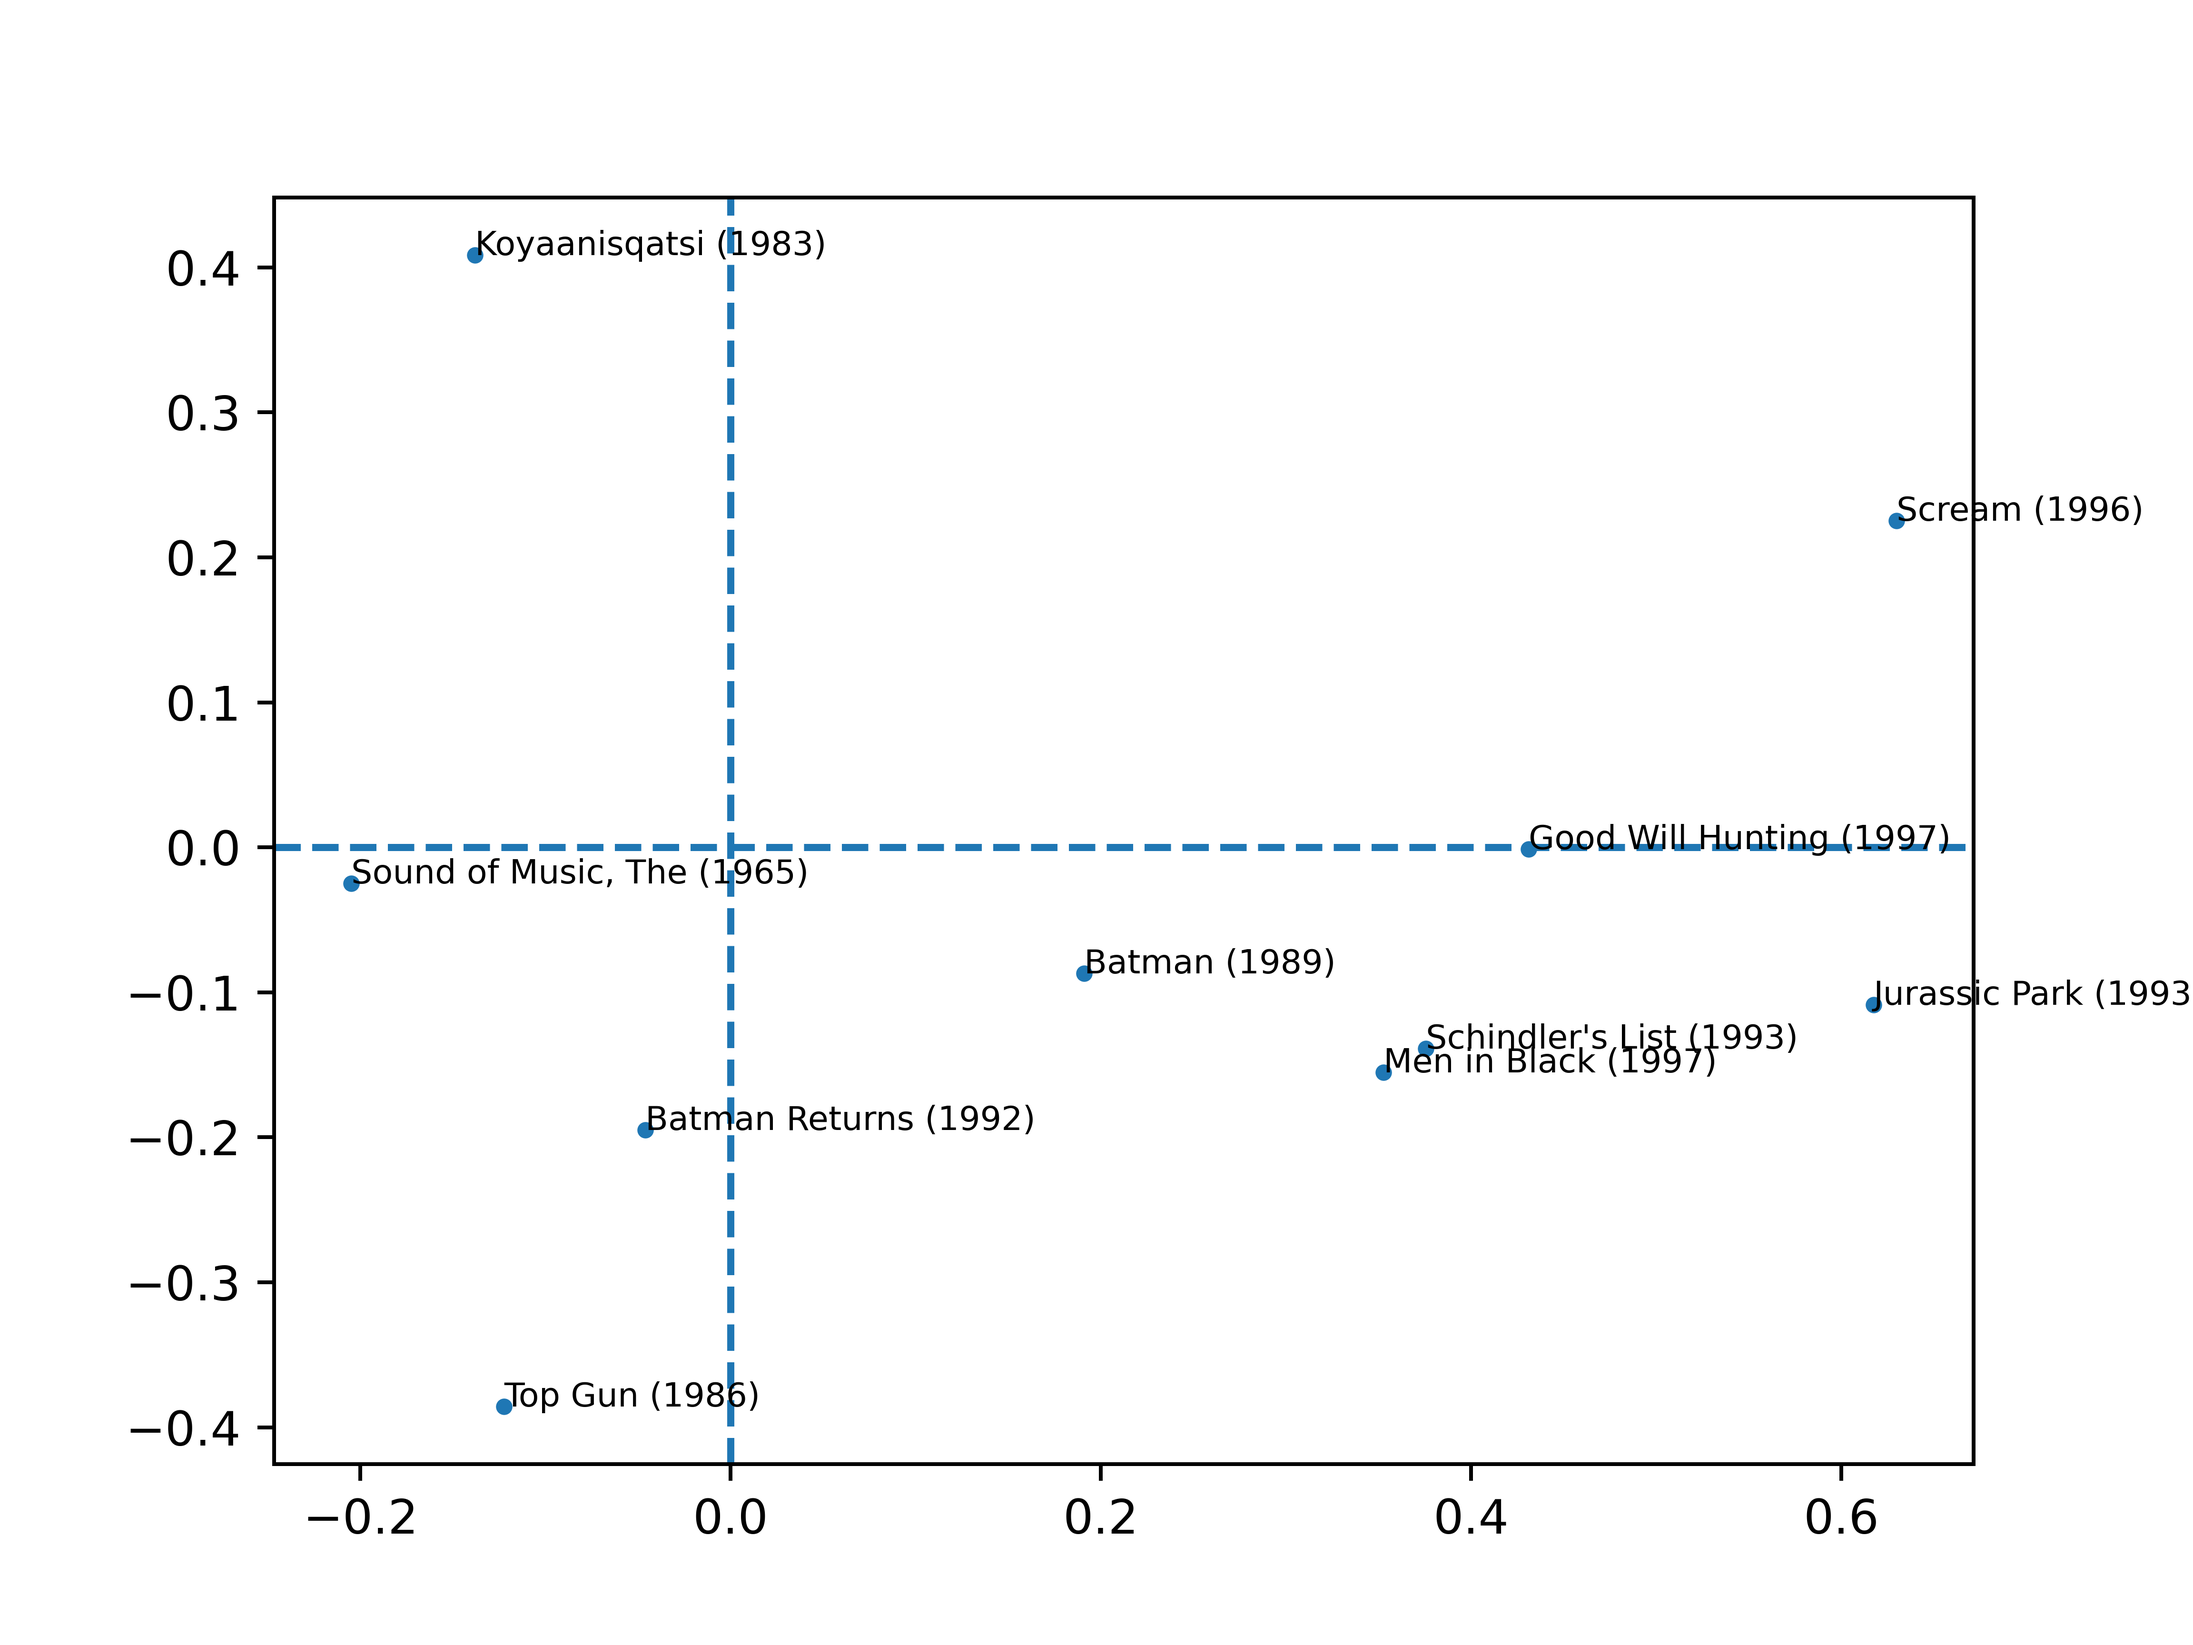
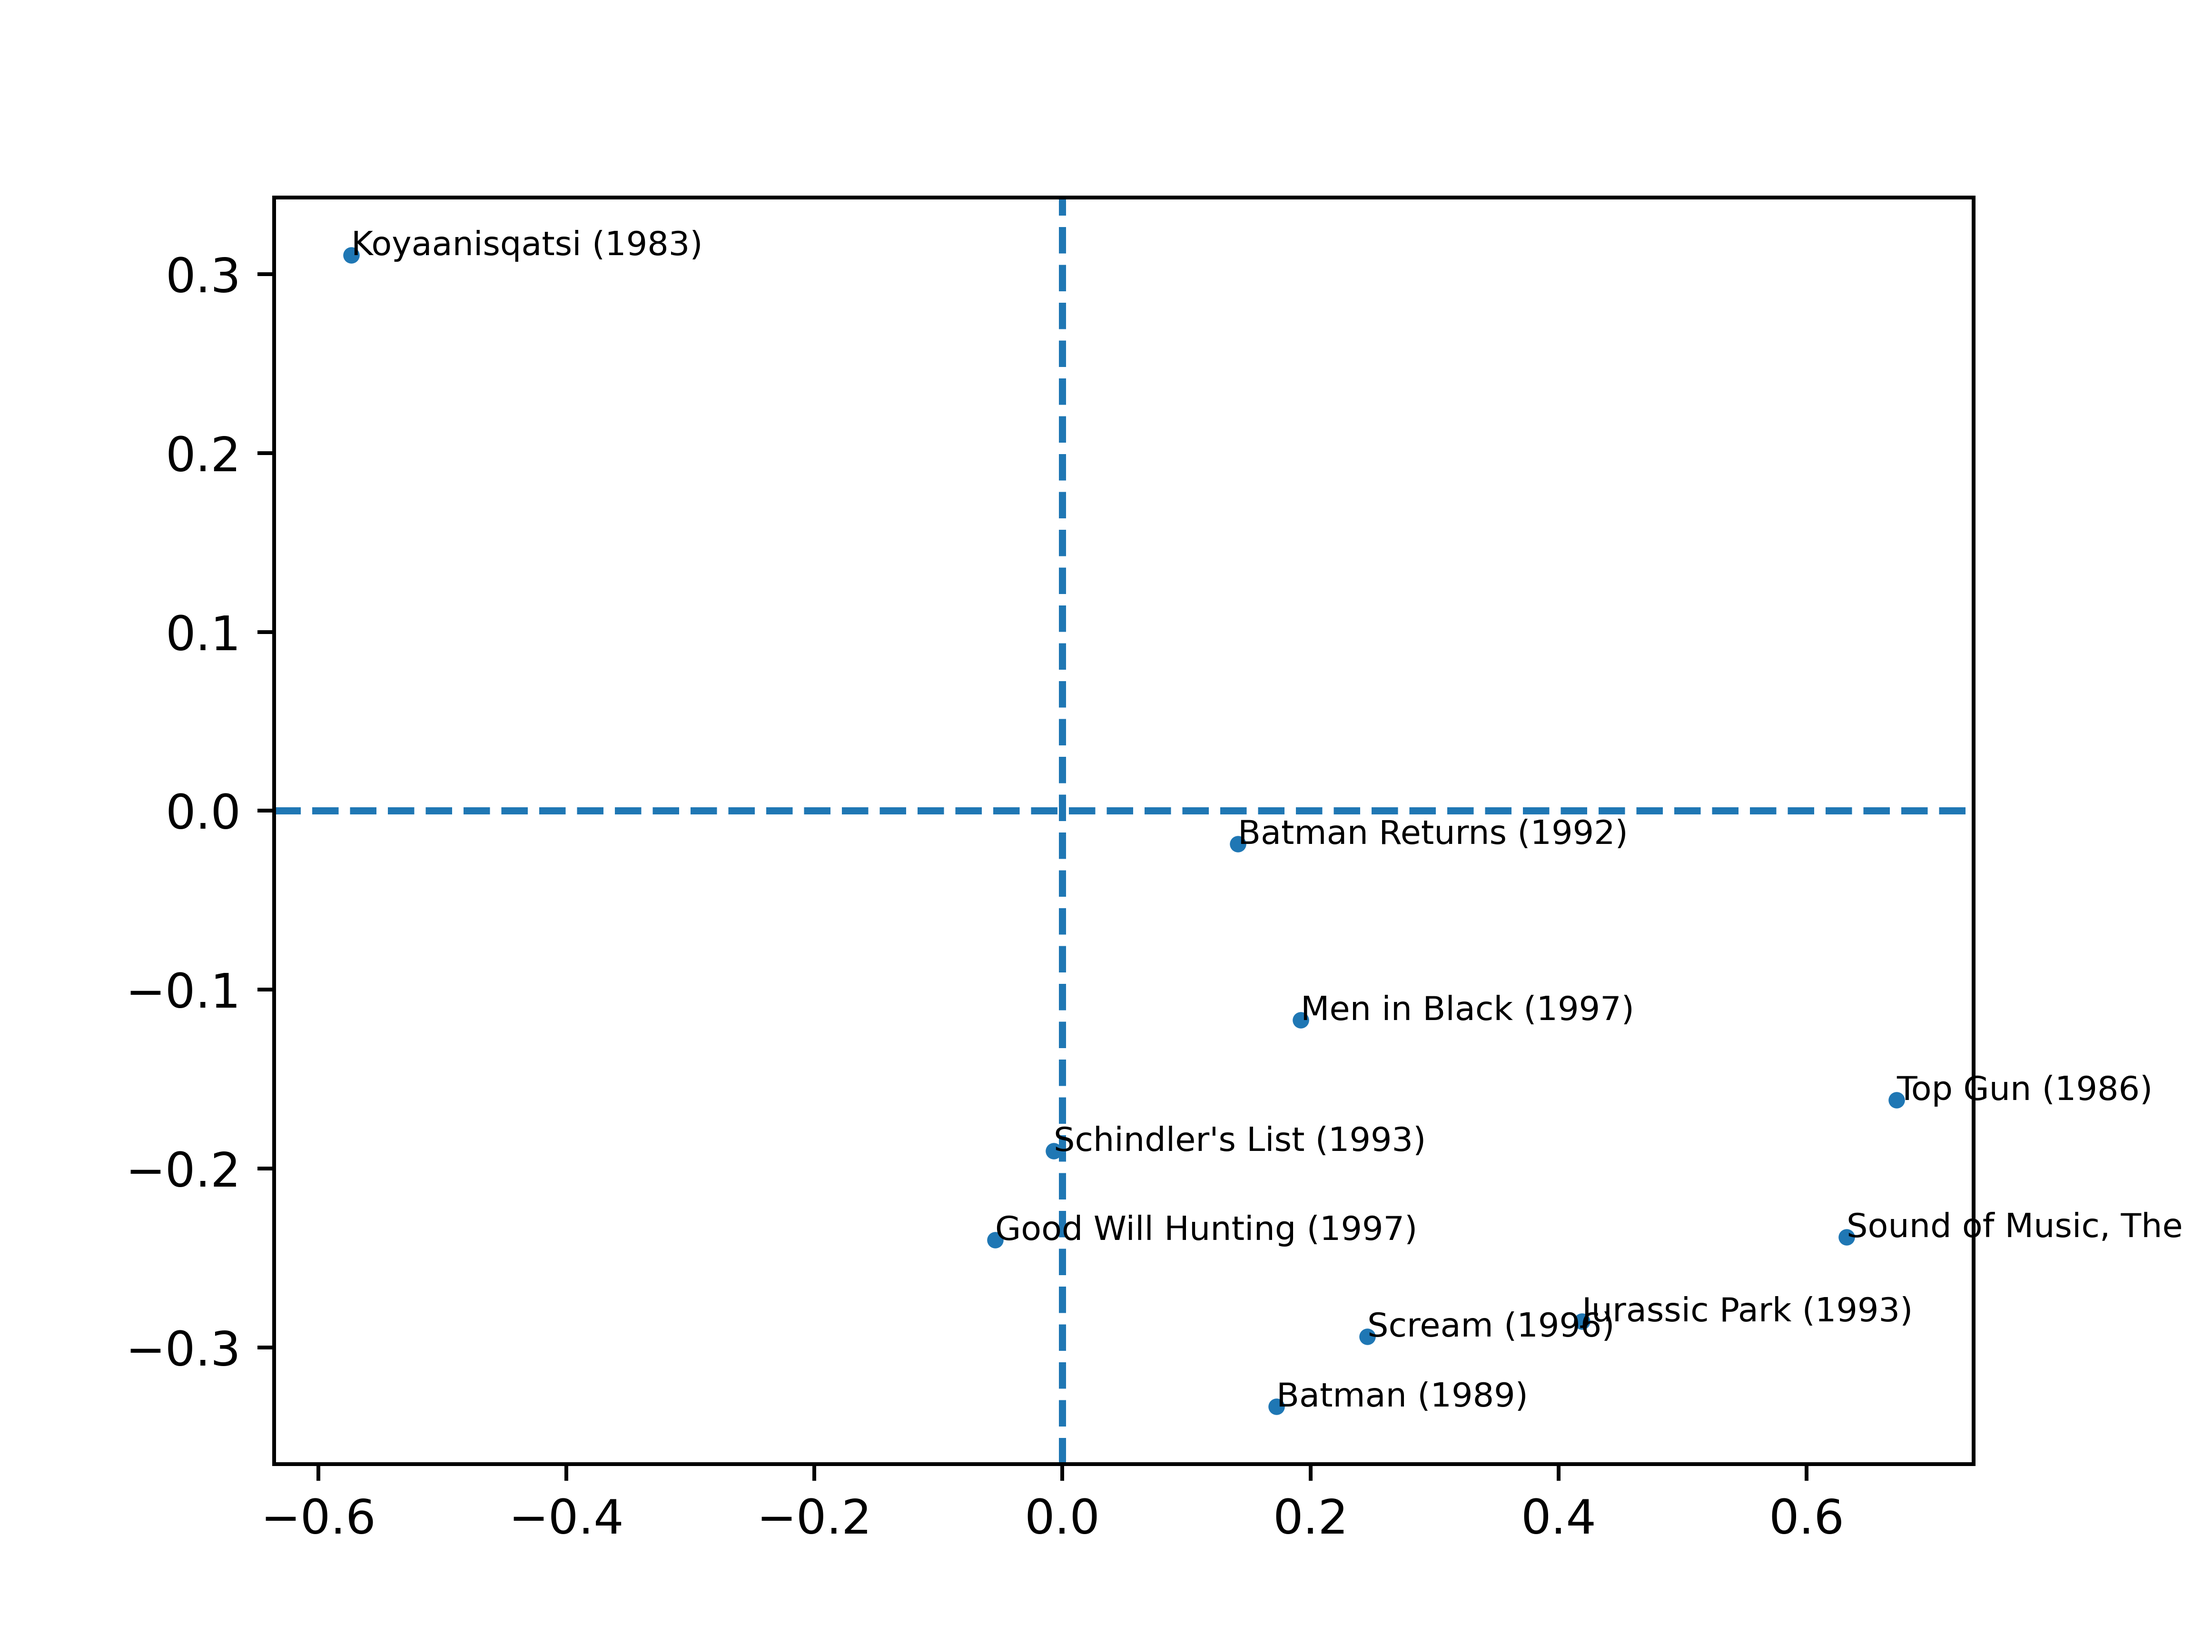
Inner iid.

diff --git a/task4.py b/task4.py
@@ -6,16 +6,17 @@ import matplotlib.pyplot as plt
 
 # Load the movies csv, which is used in multiple places below. This is read-only!
 MOVIES = pd.read_csv('movies.csv')
-print(len(MOVIES['Movie ID']))
+print(f"Number of unique movies: {len(MOVIES['Movie ID'])}")
 scores = {}
 for iid in MOVIES['Movie ID']:
-    scores.update({iid: })
+    scores.update({iid: 0})
 
 # Define a reader for Surprise
 reader = Reader()
 
 # Read the csv files
-train_df = pd.read_csv('data.csv')
+all_df = pd.read_csv('data.csv')
+train_df = pd.read_csv('train.csv')
 test_df = pd.read_csv('test.csv')
 train_df = train_df[['User ID', 'Movie ID', 'Rating']]
 print(train_df.describe())
@@ -26,12 +27,7 @@ train_set = Dataset.load_from_df(train_df, reader).build_full_trainset()
 algo = SVD(lr_all=0.03, reg_all=0.1)
 algo.fit(train_set)
 
-# Validate the model using mean error - sanity check
-# errors = []
-# print(test_df)
-# for _, (uid, iid, rating) in test_df.iterrows():
-#     errors.append(algo.predict(uid, iid).est - rating)
-# print(f"error: {sum(errors) / len(test_df.index)}")
+
 
 # Check factorization results
 U = algo.pu
@@ -39,13 +35,29 @@ print(f"U shape: {U.shape}")
 V = algo.qi
 print(f"V shape: {V.shape}")
 
+# zero_cnt = 0
+# for iid in MOVIES['Movie ID']:
+#     # for some reason unique has to be added here...
+#     if iid not in train_df['Movie ID'].unique():
+#         V = np.insert(V, iid, values=0, axis=0)
+#         zero_cnt += 1
+#         print(f"{iid} missing")
+# print(f"inserted zero rows: {zero_cnt}")
 V = V.T # maintain consistency with project description
 print(f"V shape (new): {V.shape}")
+
+# Validate the model using mean error - sanity check
+errors = []
+print(test_df)
+for _, (uid, iid, rating) in test_df.iterrows():
+    errors.append(algo.predict(uid, iid).est - rating)
+print(f"error: {sum(errors) / len(test_df.index)}")
 
 # perform SVD on the movie (V) matrix
 A, S, B = np.linalg.svd(V)
 print(A.shape)
 A_thin = (A[:, :2]).T
+# A_thin = A[:2]
 print(f"A thin shape: {A_thin.shape}")
 print(f"project shape: {(A_thin @ V).shape}")     # check that the dimensions is correct
 V_tilde = np.matmul(A_thin, V)        # project V onto the two most important dimensions
@@ -56,7 +68,8 @@ best_iid = [814, 1599, 1201, 1122, 1653, 1293, 1500, 1189, 1536, 1467]
 
 def produce_plot(iids: list, name: str):
     for iid in iids:
-        x, y = V_tilde[:, iid-1]
+        inner_iid = train_set.to_inner_iid(iid) # great. just great.
+        x, y = V_tilde[:, inner_iid]
         plt.annotate(f"{MOVIES['Movie Title'][iid-1]}", (x, y), fontsize=7)
         plt.scatter(x, y, c="tab:blue", s=6)
     plt.axvline(x=0, linestyle='--')
@@ -77,9 +90,9 @@ def first_movies_of_genre(genre: str, lim: int = 10):
     for _, row in MOVIES.iterrows():
         if row[genre] == 1:
             iids.append(row['Movie ID'])
-    counts = train_df['Movie ID'].value_counts()
+    counts = all_df['Movie ID'].value_counts()
     iids.sort(key=lambda id: counts.get(id), reverse=True)
-    return iids
+    return iids[:lim]
 
 # three genres: comedy, action, and documentary
 genres = ['Action', 'Comedy', 'Documentary']
